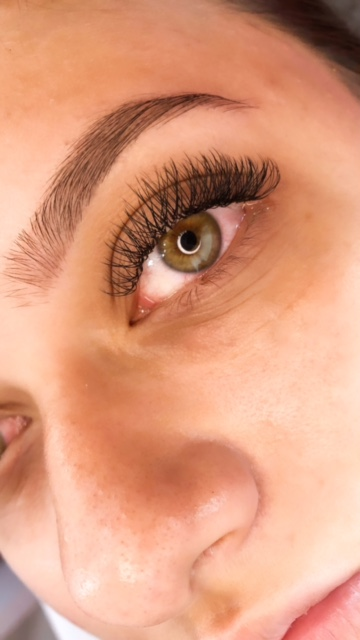
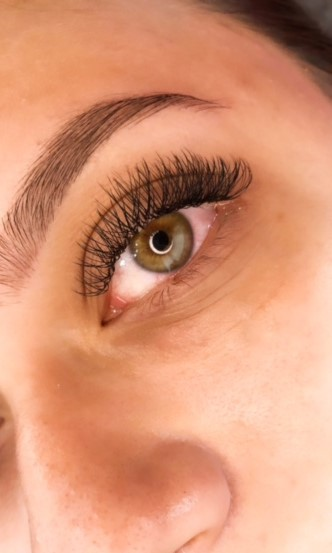
Organizing the images and adding user interaction from the hover tool

diff --git a/pam-website-project/src/css/servicos.css b/pam-website-project/src/css/servicos.css
@@ -48,29 +48,86 @@ nav li {
     */
 nav a {
     text-transform: uppercase;
-    color: #ffffff;
-    font-weight: bold;
-    font-size: 22px;
+    color:aliceblue;
+    font-weight:lighter;
+    font-size: 25px;
+}
+
+/*
+    Com o hover é possível interagir com o usuário a partir de onde estiver o mouse.
+    Por exemplo, aplicar cor e sublimar o menu de navegação.
+    */
+
+nav a:hover {
+    color:aqua;
+    text-decoration:none;
+
 }
 
 /*
     Class Strong para os títulos importantes e itens para italico.
+    A class servicos1 li possui a organização da margem dos itens.
     */
+
+.servicos1 li{
+    display: inline-block;
+    margin-left: 08%;
+    vertical-align: top;
+    width: 30%;
+    box-sizing: border-box;
+    padding: 30px 20px;
+    background: #f19595;
+    margin: 0 1.5%;
+    text-align: center;
+    border: 2px solid #181618a6;
+    border-radius: 10px;
+
+}
+
+.servicos1 {
+    background: #ae04bea6;
+}
+
+/*
+    hover específico para quando o mouse estiver em cima dos intes da li trocar a cor.
+    */
+.servicos1 li:hover {
+    border-color: aqua;
+}
+
+/*
+    Para aumentar a fonte do titulo de cada item para dar impressão de selecinado.
+    */
+.servicos1 li:hover h2 {
+    font-size: 50px;
+}
+
+/*
+    Troca a cor da borda quando o usuário clicar com o mouse em cima.
+    */
+.servicos1 li:active {
+    border-color:#eeb3f3;
+}
+
 .strong {
-    font-weight: bold;
     font-size: 40px;
-    padding: 5%;
-    text-align: center;    
+    padding: 2%;
+    text-align: center;  
+    color:aliceblue; 
+    font-weight:lighter;
 }
 
 .itens {
     font-style: italic;
     font-size: 30px;
-    display: inline-block;
+    text-align: center;
+    margin-top: 2%;
+    color: #000000;
 }
 
 .fotos {
-    weight: 480px;
-    height: 640px;
-    display: block;
+    weight: 380px;
+    height: 540px;
+    padding: 1%;
+    margin-top: 2%;
 }
